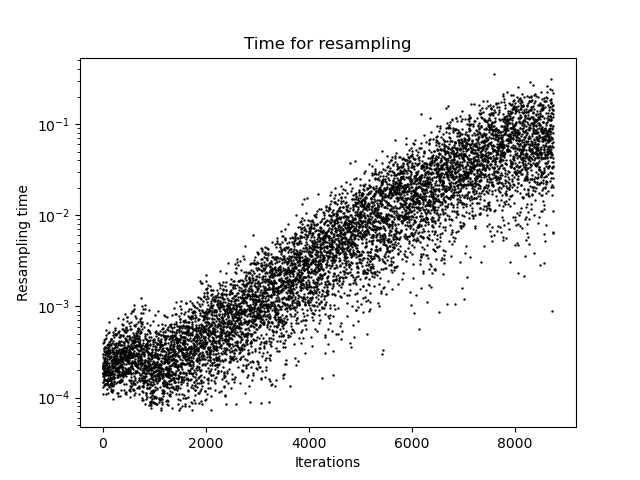
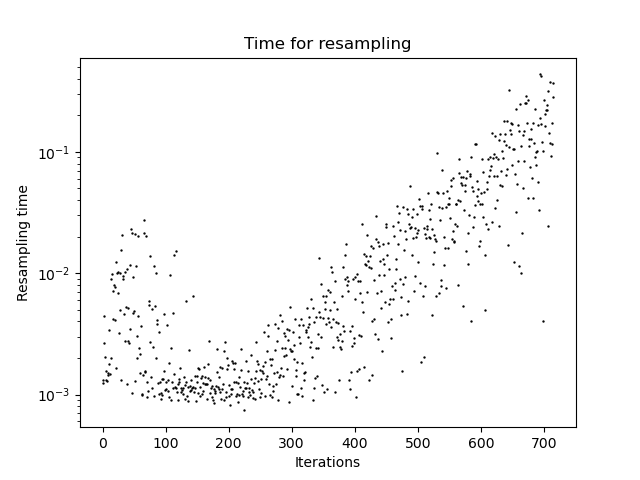
non ce la faccio più

diff --git a/nested_sampling.py b/nested_sampling.py
@@ -115,44 +115,42 @@ def normal_proposal(x, dim, logLmin, survivor, std):
         Worst likelihood, i.e. The third element of x
     '''
     start = time.time()
-    counter = 0
     accepted = 0
     rejected = 0
-    shrink = 0
     n = 0
     new_line = np.zeros(dim+2, dtype=np.float64)
     while True:
+        n += 1
         for i in range(len(new_line[:dim])):
             new_line[:dim][i] = np.random.normal(survivor[i], std)
             while np.abs(new_line[:dim][i]) > 10.:
                 new_line[:dim][i] = survivor[i] + np.random.normal(0, std)
-        #for i in  range(len(new_line[:dim])):
-            #while np.abs(new_line[:dim][i]) > 10.:
-                #new_line[:dim][i] = survivor[i] + np.random.normal(0, std)
 
         new_log_prior = log_prior(new_line[:dim], dim)
         new_line[dim] = new_log_prior[0] # I choose the first since the priors are all the same
 
-        if new_log_prior[0] - x[dim] > np.log(np.random.uniform(0,1)): # acceptance MH rule
-            new_line[dim+1] = log_likelihood(new_line[:dim], dim, init=False)[0]
-
-            if new_line[dim+1] < logLmin:
-                rejected += 1
-                counter += 1
-            if new_line[dim+1] > logLmin:
-                n += 1
-                accepted += 1
-                survivor[:dim] = new_line[:dim]
-                if n == dim:
-                    end = time.time()
-                    return new_line, (end-start), accepted, rejected
+        #if new_log_prior[0] - x[dim] > np.log(np.random.uniform(0,1)): # acceptance MH rule
+        new_line[dim+1] = log_likelihood(new_line[:dim], dim, init=False)[0]
+        if new_line[dim+1] < logLmin:
+            rejected += 1
+        if new_line[dim+1] > logLmin:
+            #n += 1
+            accepted += 1
+            survivor[:dim] = new_line[:dim]
+            if n > 20:
+                end = time.time()
+                break
+        if accepted != 0 and rejected != 0:
+            if accepted > rejected: std *= np.exp(1.0/accepted)
+            if accepted < rejected: std /= np.exp(1.0/rejected)
+    return new_line, (end-start), accepted, rejected
 
 def nested_samplig(live_points, dim, resample_function=uniform_proposal, verbose=False):
     '''Nested Sampling by Skilling (2006)
     '''
 
     N = live_points.shape[0]
-    f = np.log(0.01)
+    f = np.log(0.05)
     Area = []; Zlog = []; logL_worst = []; T = []; prior_mass = [] # lists for plots
 
     logZ = -np.inf
@@ -164,14 +162,14 @@ def nested_samplig(live_points, dim, resample_function=uniform_proposal, verbose
     max_log_l = dim*np.log(2*boundary) - 0.5*dim*np.log(2*np.pi)
 
     steps = 0
-    multiplier_steps = 0; multiplier = 6
+    multiplier_steps = 0; multiplier = 5
     accepted = 0
     rejected = 0
     while True:
         steps += 1
         multiplier_steps += 1
-        if multiplier_steps > 170:
-            multiplier -= 0.1
+        if multiplier_steps > 100:
+            multiplier -= 0.03
             multiplier_steps = 0
         if multiplier < 0.1:
             multiplier = 0.1
@@ -181,7 +179,7 @@ def nested_samplig(live_points, dim, resample_function=uniform_proposal, verbose
         logZnew = np.logaddexp(logZ, logwidth+logLw)
 
         survivors = np.delete(live_points, Lw_idx, axis=0)
-        std = multiplier * np.std(survivors[:dim])
+        std = np.std(survivors[:dim])*multiplier
         k = survivors.shape[0]
         survivor = live_points[Lw_idx,:dim]
 
